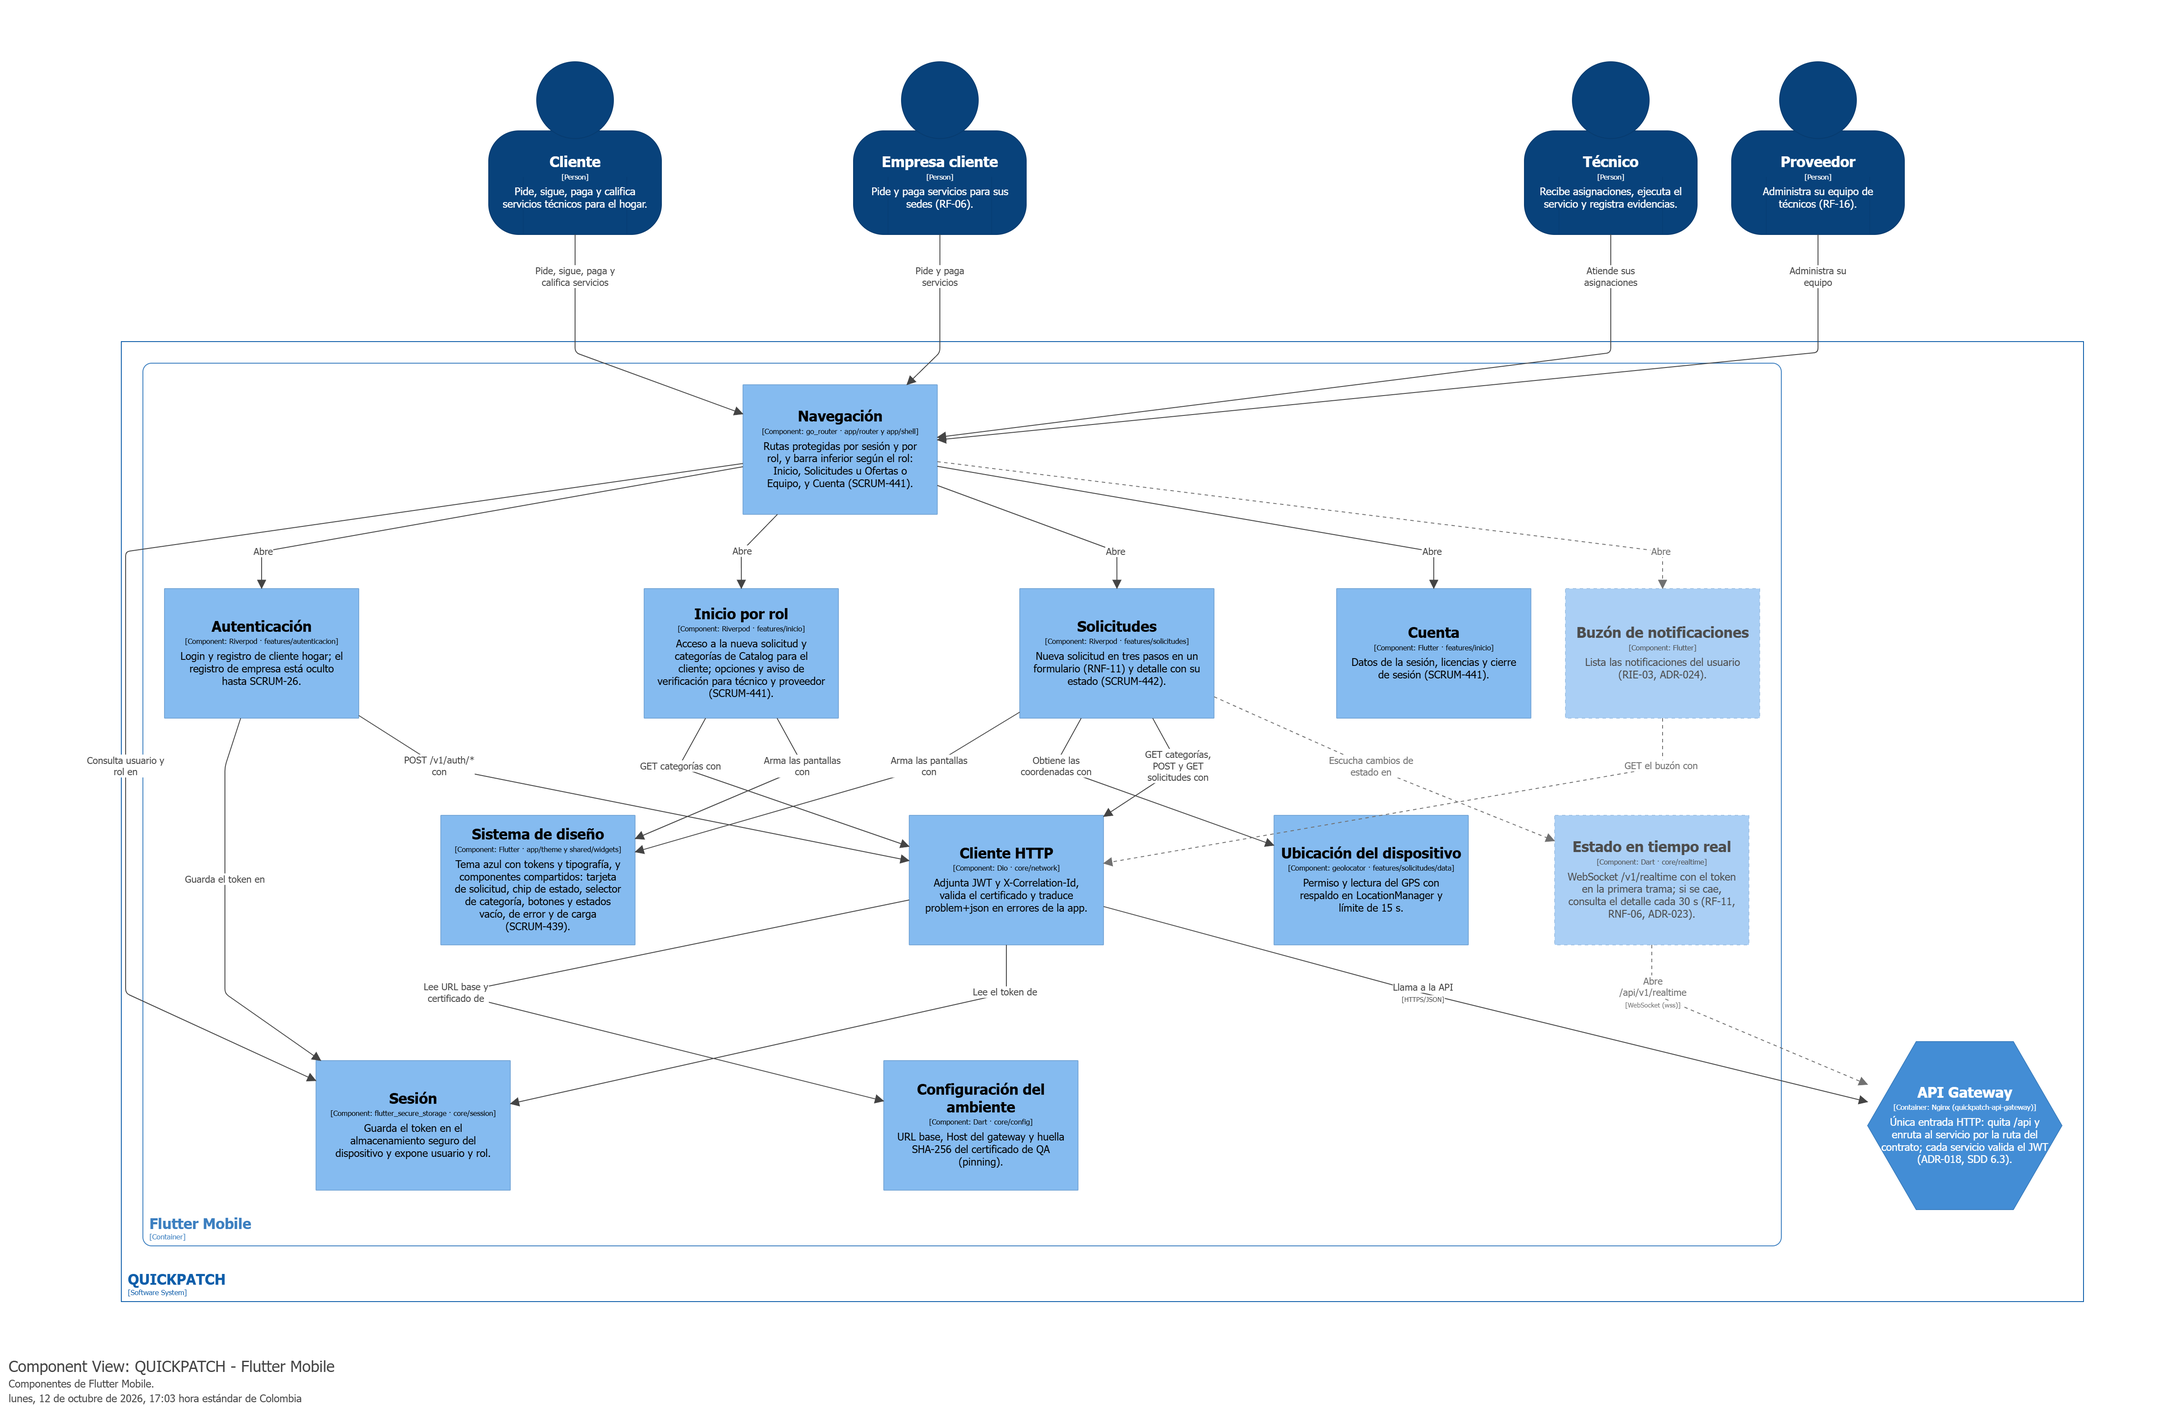
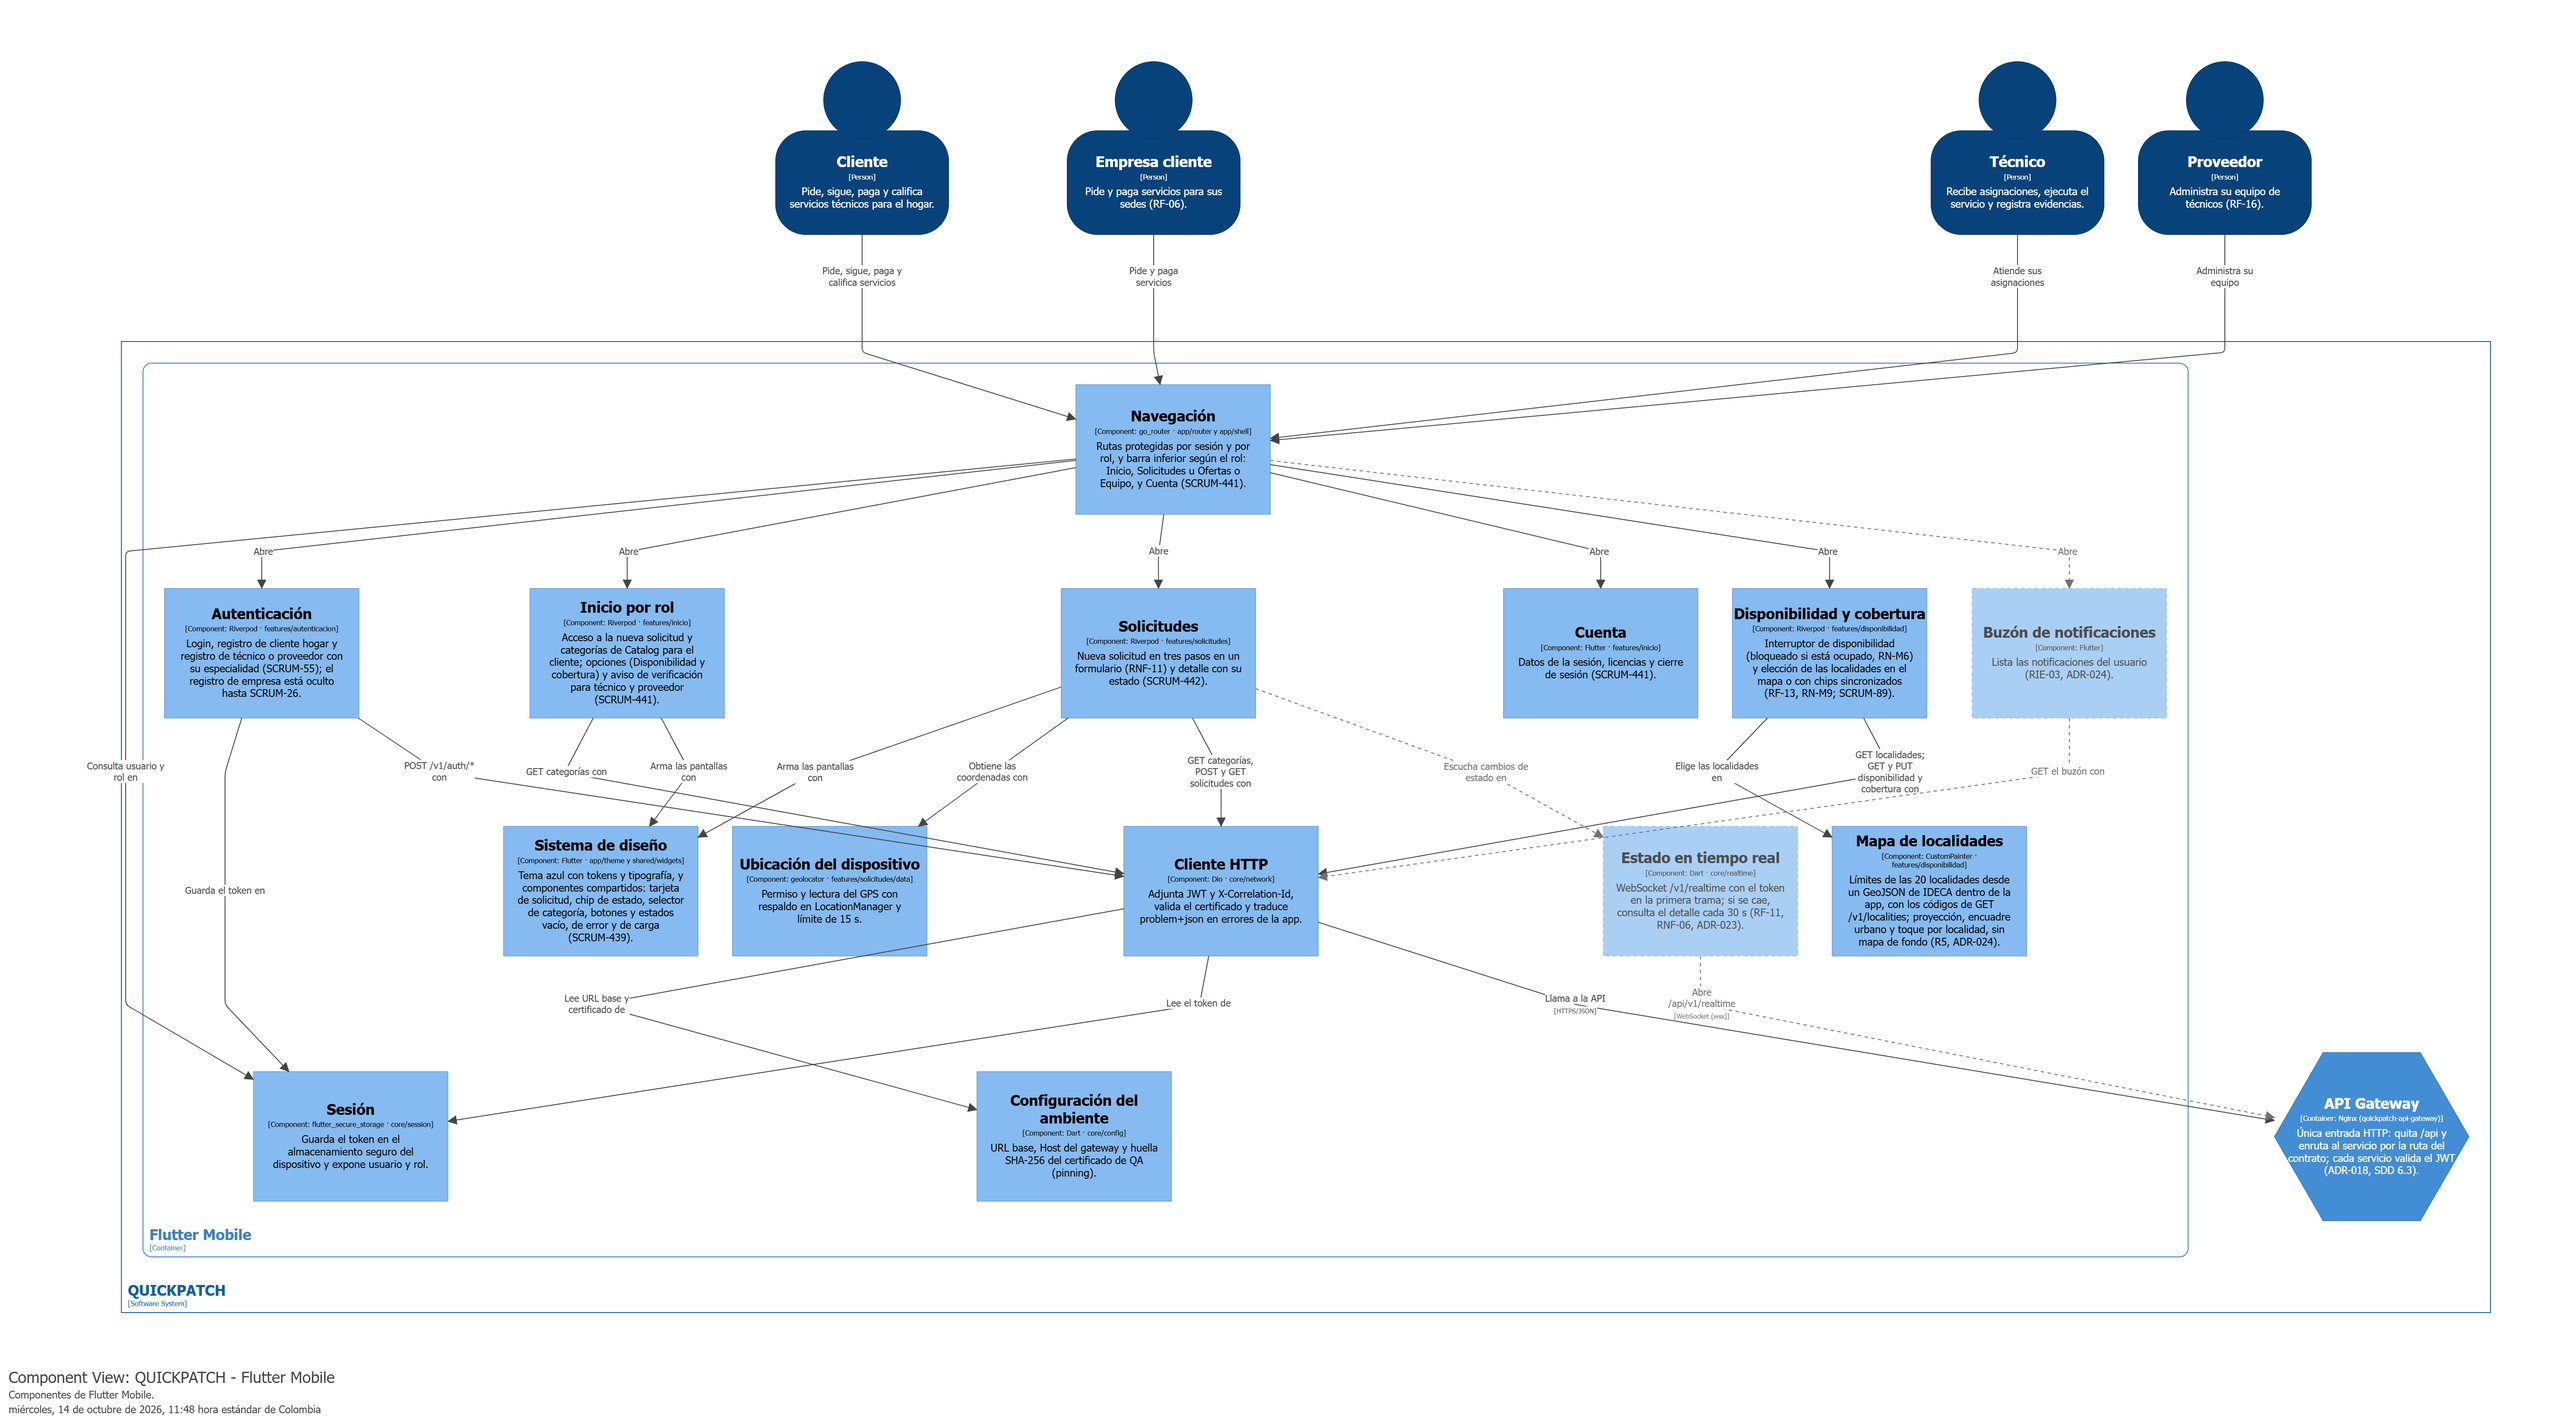
docs(c4): componentes de las apps Web y Mobile del incremento (SCRUM-426)
Angular Web: la aprobación de técnicos deja de estar planeada (SCRUM-107,
SCRUM-110) y se agrega su cliente API. La gestión de tenants ahora también
crea tenants (SCRUM-61).

Flutter Mobile: se agregan los componentes de disponibilidad y cobertura y
el mapa de localidades (SCRUM-89), y el registro de técnico o proveedor
(SCRUM-55). El estado en tiempo real sigue planeado hasta SCRUM-83.

Figuras 8 y 9 exportadas de nuevo. Sección 6.2 del SDD: tablas y contratos.
Se corrige la fila duplicada de aprobación de técnicos.

diff --git a/docs/architecture/SDD.md b/docs/architecture/SDD.md
@@ -312,12 +312,12 @@ Estos diagramas abren los dos contenedores cliente de la Figura 3. Cada componen
 | Interceptor HTTP | `core/http.ts` | Adjunta el JWT y `X-Correlation-Id`; ante un 401 cierra la sesión y vuelve al login. | SCRUM-25 |
 | Guards de rol | `core/guards.ts` | Permiten cada ruta según el rol y envían al inicio del rol cuando no corresponde: `admin_plataforma` ve la gestión de tenants y `admin_tenant` no (RN-U6). | SCRUM-25 / SCRUM-64 |
 | Inicio de sesión | `features/autenticacion` | Formulario de acceso con validaciones y errores. | SCRUM-23 |
-| Inicio | `features/inicio` | Menú según el rol del administrador. | SCRUM-25 |
-| Gestión de tenants | `features/tenants/tenants.ts` | Lista los tenants y los activa o desactiva con confirmación. | SCRUM-41 / SCRUM-112 |
-| Cliente API de tenants | `features/tenants/tenants-api.ts` | `GET` y `PATCH /v1/platform/tenants`. | SCRUM-41 / SCRUM-112 |
+| Inicio | `features/inicio` | Menú según el rol del administrador; la tarjeta de Técnicos lleva a su pantalla. | SCRUM-25 |
+| Gestión de tenants | `features/tenants/tenants.ts` | Lista y busca los tenants, los activa o desactiva con confirmación y crea uno con nombre y NIT: los errores 400 y el NIT repetido (409 `nit-registrado`) se muestran en su campo. | SCRUM-41 / SCRUM-112; SCRUM-24 / SCRUM-61 |
+| Cliente API de tenants | `features/tenants/tenants-api.ts` | `GET`, `POST` y `PATCH /v1/platform/tenants`. | SCRUM-41 / SCRUM-112; SCRUM-24 / SCRUM-61 |
 | Sistema de diseño | `styles/`, `shared/` | Tokens azules, fuente autoalojada y componentes reutilizables (búsqueda, diálogo de confirmación, insignia, estado de verificación, tarjeta de detalle); el CI verifica el contraste WCAG AA y corre axe-core. | SCRUM-433 (434 a 438) |
-| Aprobación de técnicos *(planeado)* | `features/tecnicos` | Aprueba, rechaza y suspende técnicos del tenant (RF-19, RF-20). | SCRUM-39 / SCRUM-40 |
-| Aprobación de técnicos *(planeado)* | — | Aprueba y suspende técnicos del tenant (RF-19, RF-20). | — |
+| Aprobación de técnicos | `features/tecnicos/tecnicos.ts` | Lista técnicos y proveedores del tenant por estado de verificación, con paginación. Aprueba y rechaza (RF-19), suspende y reactiva (RF-20) según las transiciones de DD 8.3.13, con confirmación y un motivo de 5 a 500 caracteres para rechazar y suspender; un 409 `transicion-invalida` recarga la lista. | SCRUM-39 / SCRUM-107; SCRUM-40 / SCRUM-110 |
+| Cliente API de técnicos | `features/tecnicos/tecnicos-api.ts` | `GET /v1/admin/technicians` y `POST .../{userId}/approve`, `/reject` y `/suspend`; los nombres de especialidad salen de `GET /v1/catalog/categories`. | SCRUM-39 / SCRUM-107; SCRUM-40 / SCRUM-110 |
 
 ![Componentes de Flutter Mobile](diagrams/c4/C4-04-Componentes-Mobile.png)
 
@@ -329,12 +329,14 @@ Estos diagramas abren los dos contenedores cliente de la Figura 3. Cada componen
 | Configuración del ambiente | `core/config` | URL base, `Host` del gateway y huella SHA-256 del certificado de QA. | SCRUM-27 |
 | Cliente HTTP | `core/network` | Adjunta el JWT y `X-Correlation-Id`, fija el certificado y traduce `problem+json` en errores de la app. | SCRUM-27 |
 | Sesión | `core/session` | Guarda el token en el almacenamiento seguro del dispositivo y expone usuario y rol. | SCRUM-23 |
-| Autenticación | `features/autenticacion` | Login y registro de cliente hogar. El registro de empresa está oculto (`registroEmpresaHabilitado = false`) hasta SCRUM-26. | SCRUM-23 |
-| Inicio por rol | `features/inicio` | Para el cliente, acceso a la nueva solicitud y categorías de Catalog; para técnico y proveedor, sus opciones y el aviso de verificación. | SCRUM-27 / SCRUM-441 |
+| Autenticación | `features/autenticacion` | Login, registro de cliente hogar y registro de técnico o proveedor con su especialidad. El registro de empresa está oculto (`registroEmpresaHabilitado = false`) hasta SCRUM-26. | SCRUM-23; SCRUM-22 / SCRUM-55 |
+| Inicio por rol | `features/inicio` | Para el cliente, acceso a la nueva solicitud y categorías de Catalog; para técnico y proveedor, sus opciones (Disponibilidad y cobertura) y el aviso de verificación. | SCRUM-27 / SCRUM-441 |
 | Cuenta | `features/inicio` | Datos de la sesión, licencias y cierre de sesión. | SCRUM-441 |
 | Sistema de diseño | `app/theme`, `shared/widgets`, `features/solicitudes/presentation/widgets` | Tema azul con tokens y tipografía, y componentes para las pantallas del cliente y del técnico (tarjeta de solicitud, chip de estado, selector de categoría, botones y estados vacío, de error y de carga); contraste WCAG AA y texto al 200 % probados. | SCRUM-439 (440 a 444) |
 | Solicitudes | `features/solicitudes` | Nueva solicitud en tres pasos en un solo formulario (RNF-11) y detalle con su estado. | SCRUM-27 / SCRUM-71 / SCRUM-442 |
 | Ubicación del dispositivo | `features/solicitudes/data` | Permiso y lectura del GPS, con respaldo en `LocationManager` y límite de 15 s. | SCRUM-27 / SCRUM-71 |
+| Disponibilidad y cobertura | `features/disponibilidad` | Interruptor de disponibilidad, bloqueado mientras el técnico está ocupado (RN-M6), y elección de las localidades que cubre en el mapa o con chips sincronizados (RF-13, RN-M9). `GET /v1/localities` y `GET`/`PUT` de `/v1/technicians/me/availability` y `/coverage`. | SCRUM-33 / SCRUM-89 |
+| Mapa de localidades | `features/disponibilidad` (`assets/geo`) | Límites de las 20 localidades desde un GeoJSON dentro de la app (capa «Localidad» de la SDP publicada por IDECA, CC BY 4.0, con los mismos códigos de `GET /v1/localities`); los proyecta, abre encuadrado en la zona urbana y resuelve qué localidad se tocó. Sin mapa de fondo ni servicios externos (R5, ADR-024). | SCRUM-33 / SCRUM-89 |
 | Estado en tiempo real *(planeado)* | `core/realtime` | Cambios de estado de la solicitud (RF-11, RNF-06) por WebSocket (`/v1/realtime`, ADR-023), con consulta cada 30 s si el canal no está disponible. | SCRUM-412 |
 | Buzón de notificaciones *(planeado)* | — | Lista las notificaciones del usuario (RIE-03, ADR-024). La geocodificación de la dirección ya no está en la app: la hace ServiceRequest (ADR-024). | SCRUM-413 |
 
@@ -342,7 +344,7 @@ Reglas comunes a las dos aplicaciones:
 
 - **Tenant:** ninguna app envía `tenant_id` (RN-U3 del DD). En el login y el registro todavía no hay JWT, así que el tenant sale del canal por el que llega la petición (RN-U5); en las peticiones autenticadas sale del token que propaga el API Gateway (DD, sección 10.3).
 - **Errores:** un 401 cierra la sesión y lleva al login. Las apps no tienen pantalla de acceso denegado: en el panel, los guards envían al inicio del rol; un 403 de la API, como el resto de errores, se muestra en la pantalla que lo produjo, sin perder los datos ingresados.
-- **Contratos:** Mobile consume `identity.v1.yaml`, `catalog.v1.yaml` y `service-request.v1.yaml`; Web consume `identity.v1.yaml` (inicio de sesión y `/v1/platform/tenants`). Mobile llama además a `POST /v1/auth/register/company`, que todavía no está en `identity.v1.yaml` (SAD 2.2).
+- **Contratos:** Mobile consume `identity.v1.yaml`, `catalog.v1.yaml`, `service-request.v1.yaml` y `matching.v1.yaml` (localidades, disponibilidad y cobertura); Web consume `identity.v1.yaml` (inicio de sesión, `/v1/platform/tenants` y `/v1/admin/technicians`) y `catalog.v1.yaml` (nombres de especialidad). Mobile llama además a `POST /v1/auth/register/company`, que todavía no está en `identity.v1.yaml` (SAD 2.2).
 - **Pendiente:** el contrato v1 de creación de solicitudes solo admite el rol `cliente` y responde 403 a los demás, mientras que el SRS (F2.1) incluye a la empresa cliente. Se debe resolver antes de cerrar SCRUM-27.
 
 ## 6.3 API Gateway
